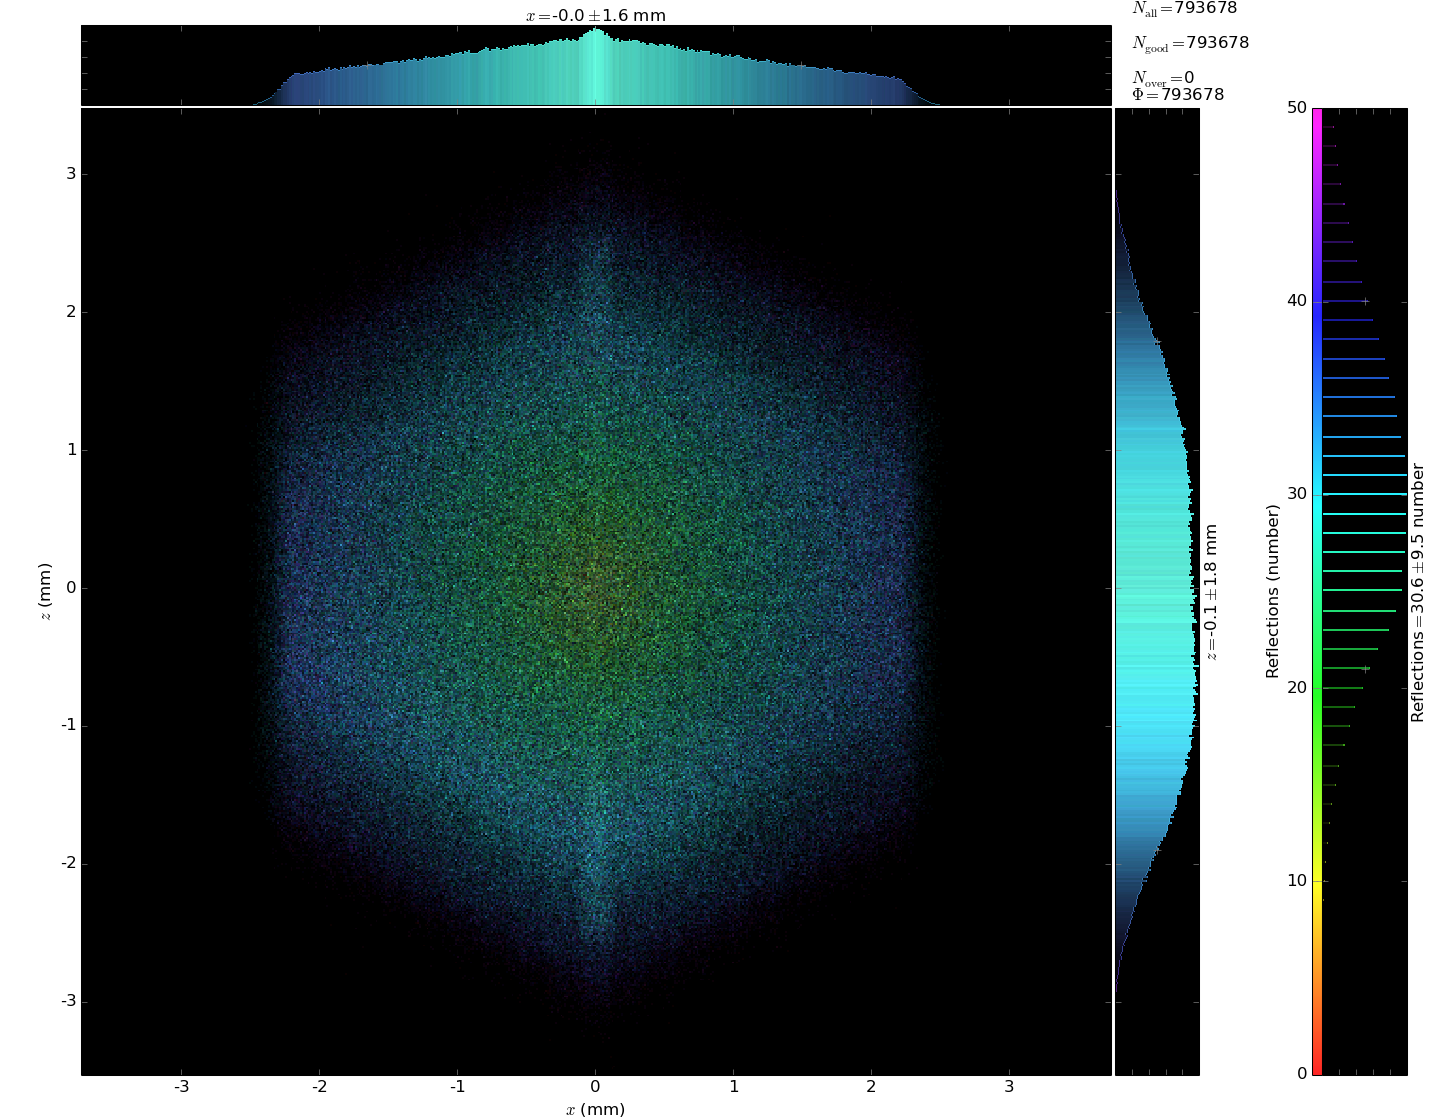
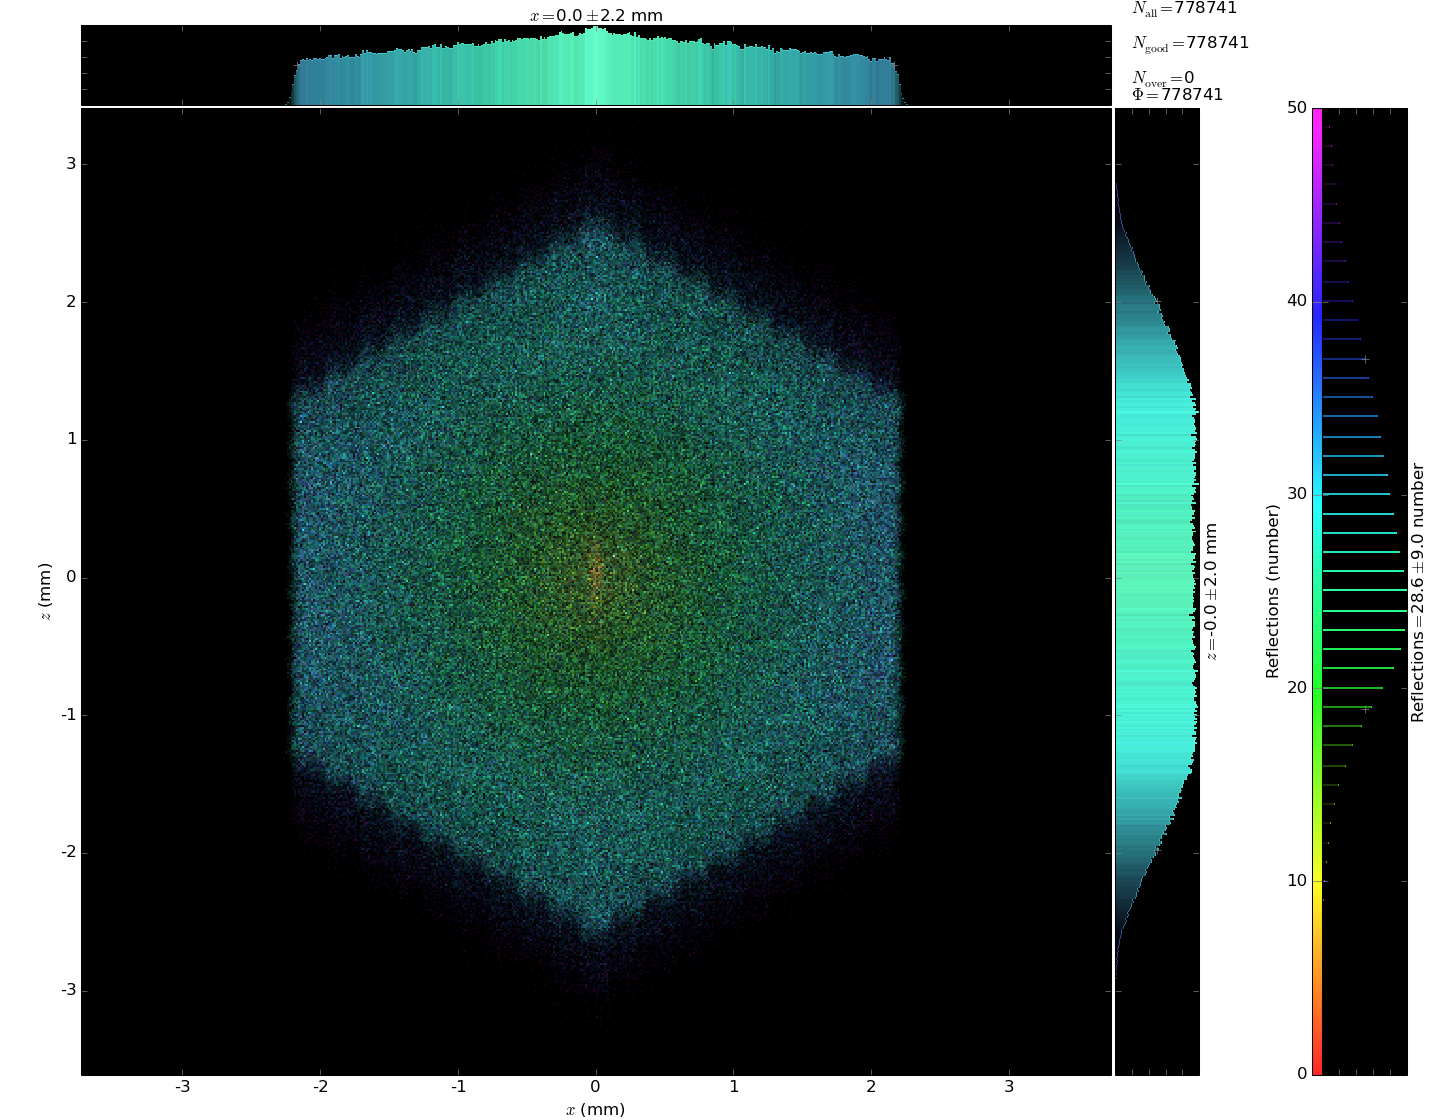
Improve beam shifting mechanism, add pictures with sharpening effect

diff --git a/utils/beam.py b/utils/beam.py
@@ -2,6 +2,7 @@ import pickle
 import gzip
 from glob import glob
 import pandas as pd
+import numpy as np
 import matplotlib.pyplot as plt
 import xrt.backends.raycing.sources as rs
 
@@ -17,12 +18,31 @@ def get_beam_part(beam, hitpoint, radius):
     return out
 
 # FIXME this name is highly misleading
-def move_beam_to(beam, where):
-    """ Propagates the beam in vacuum to *where* position """
-    beam.path += where
-    beam.y    += where
-    beam.x[:] += beam.a * where
-    beam.z[:] += beam.c * where
+def move_beam_to(beam, where_to):
+    """ Propagates the beam in vacuum """
+    beam.y[:] = beam.y[:] - where_to
+
+    xx = 1., 0., 0.
+    zz = 0., 0., 1.
+    yy = np.cross(zz, xx)
+
+    xyz = beam.x, beam.y, beam.z
+    beam.x[:], beam.y[:], beam.z[:] = \
+	    sum(c*b for c, b in zip(xx, xyz)),\
+	    sum(c*b for c, b in zip(yy, xyz)),\
+	    sum(c*b for c, b in zip(zz, xyz))
+    abc = beam.a, beam.b, beam.c
+    beam.a[:], beam.b[:], beam.c[:] = \
+	    sum(c*b for c, b in zip(xx, abc)),\
+	    sum(c*b for c, b in zip(yy, abc)),\
+	    sum(c*b for c, b in zip(zz, abc))
+
+    path = -beam.y / beam.b
+    beam.path += path
+
+    beam.x[:] += beam.a * path
+    beam.z[:] += beam.c * path
+    beam.y[:] = where_to
 
 def frame_to_beam(frame):
     """ pd.DataFrame to xrt.Beam converter """
